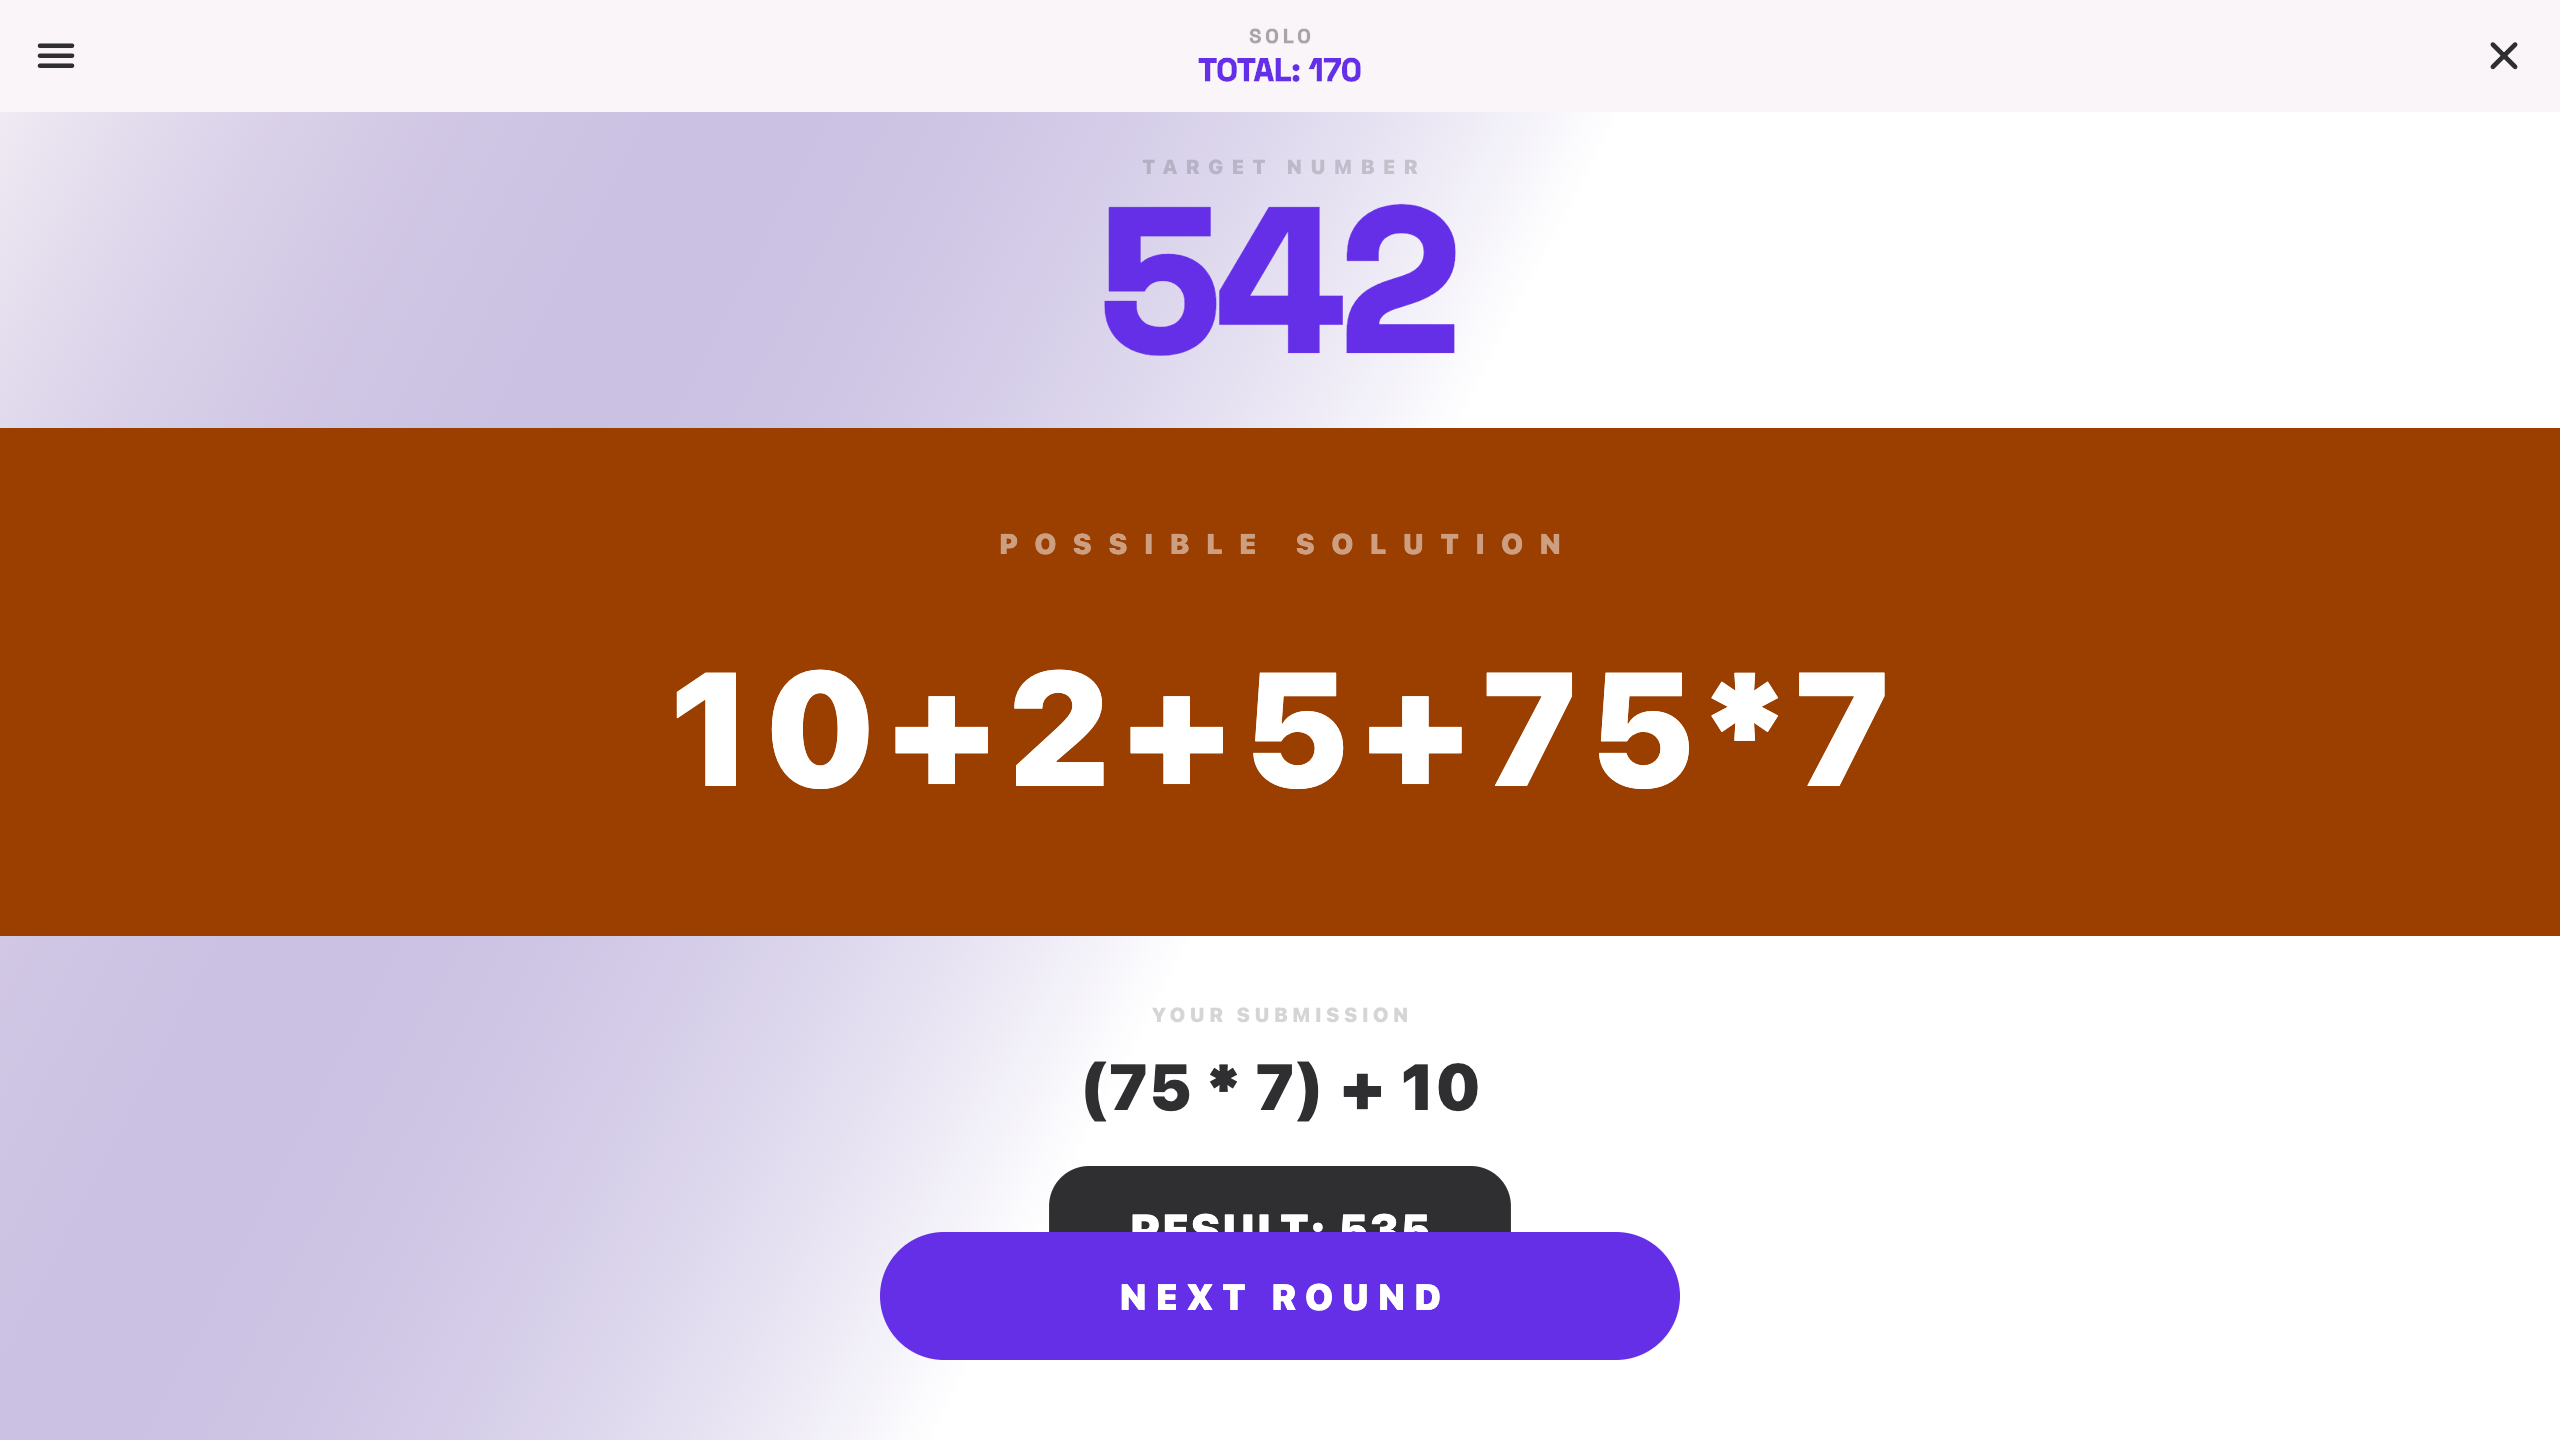
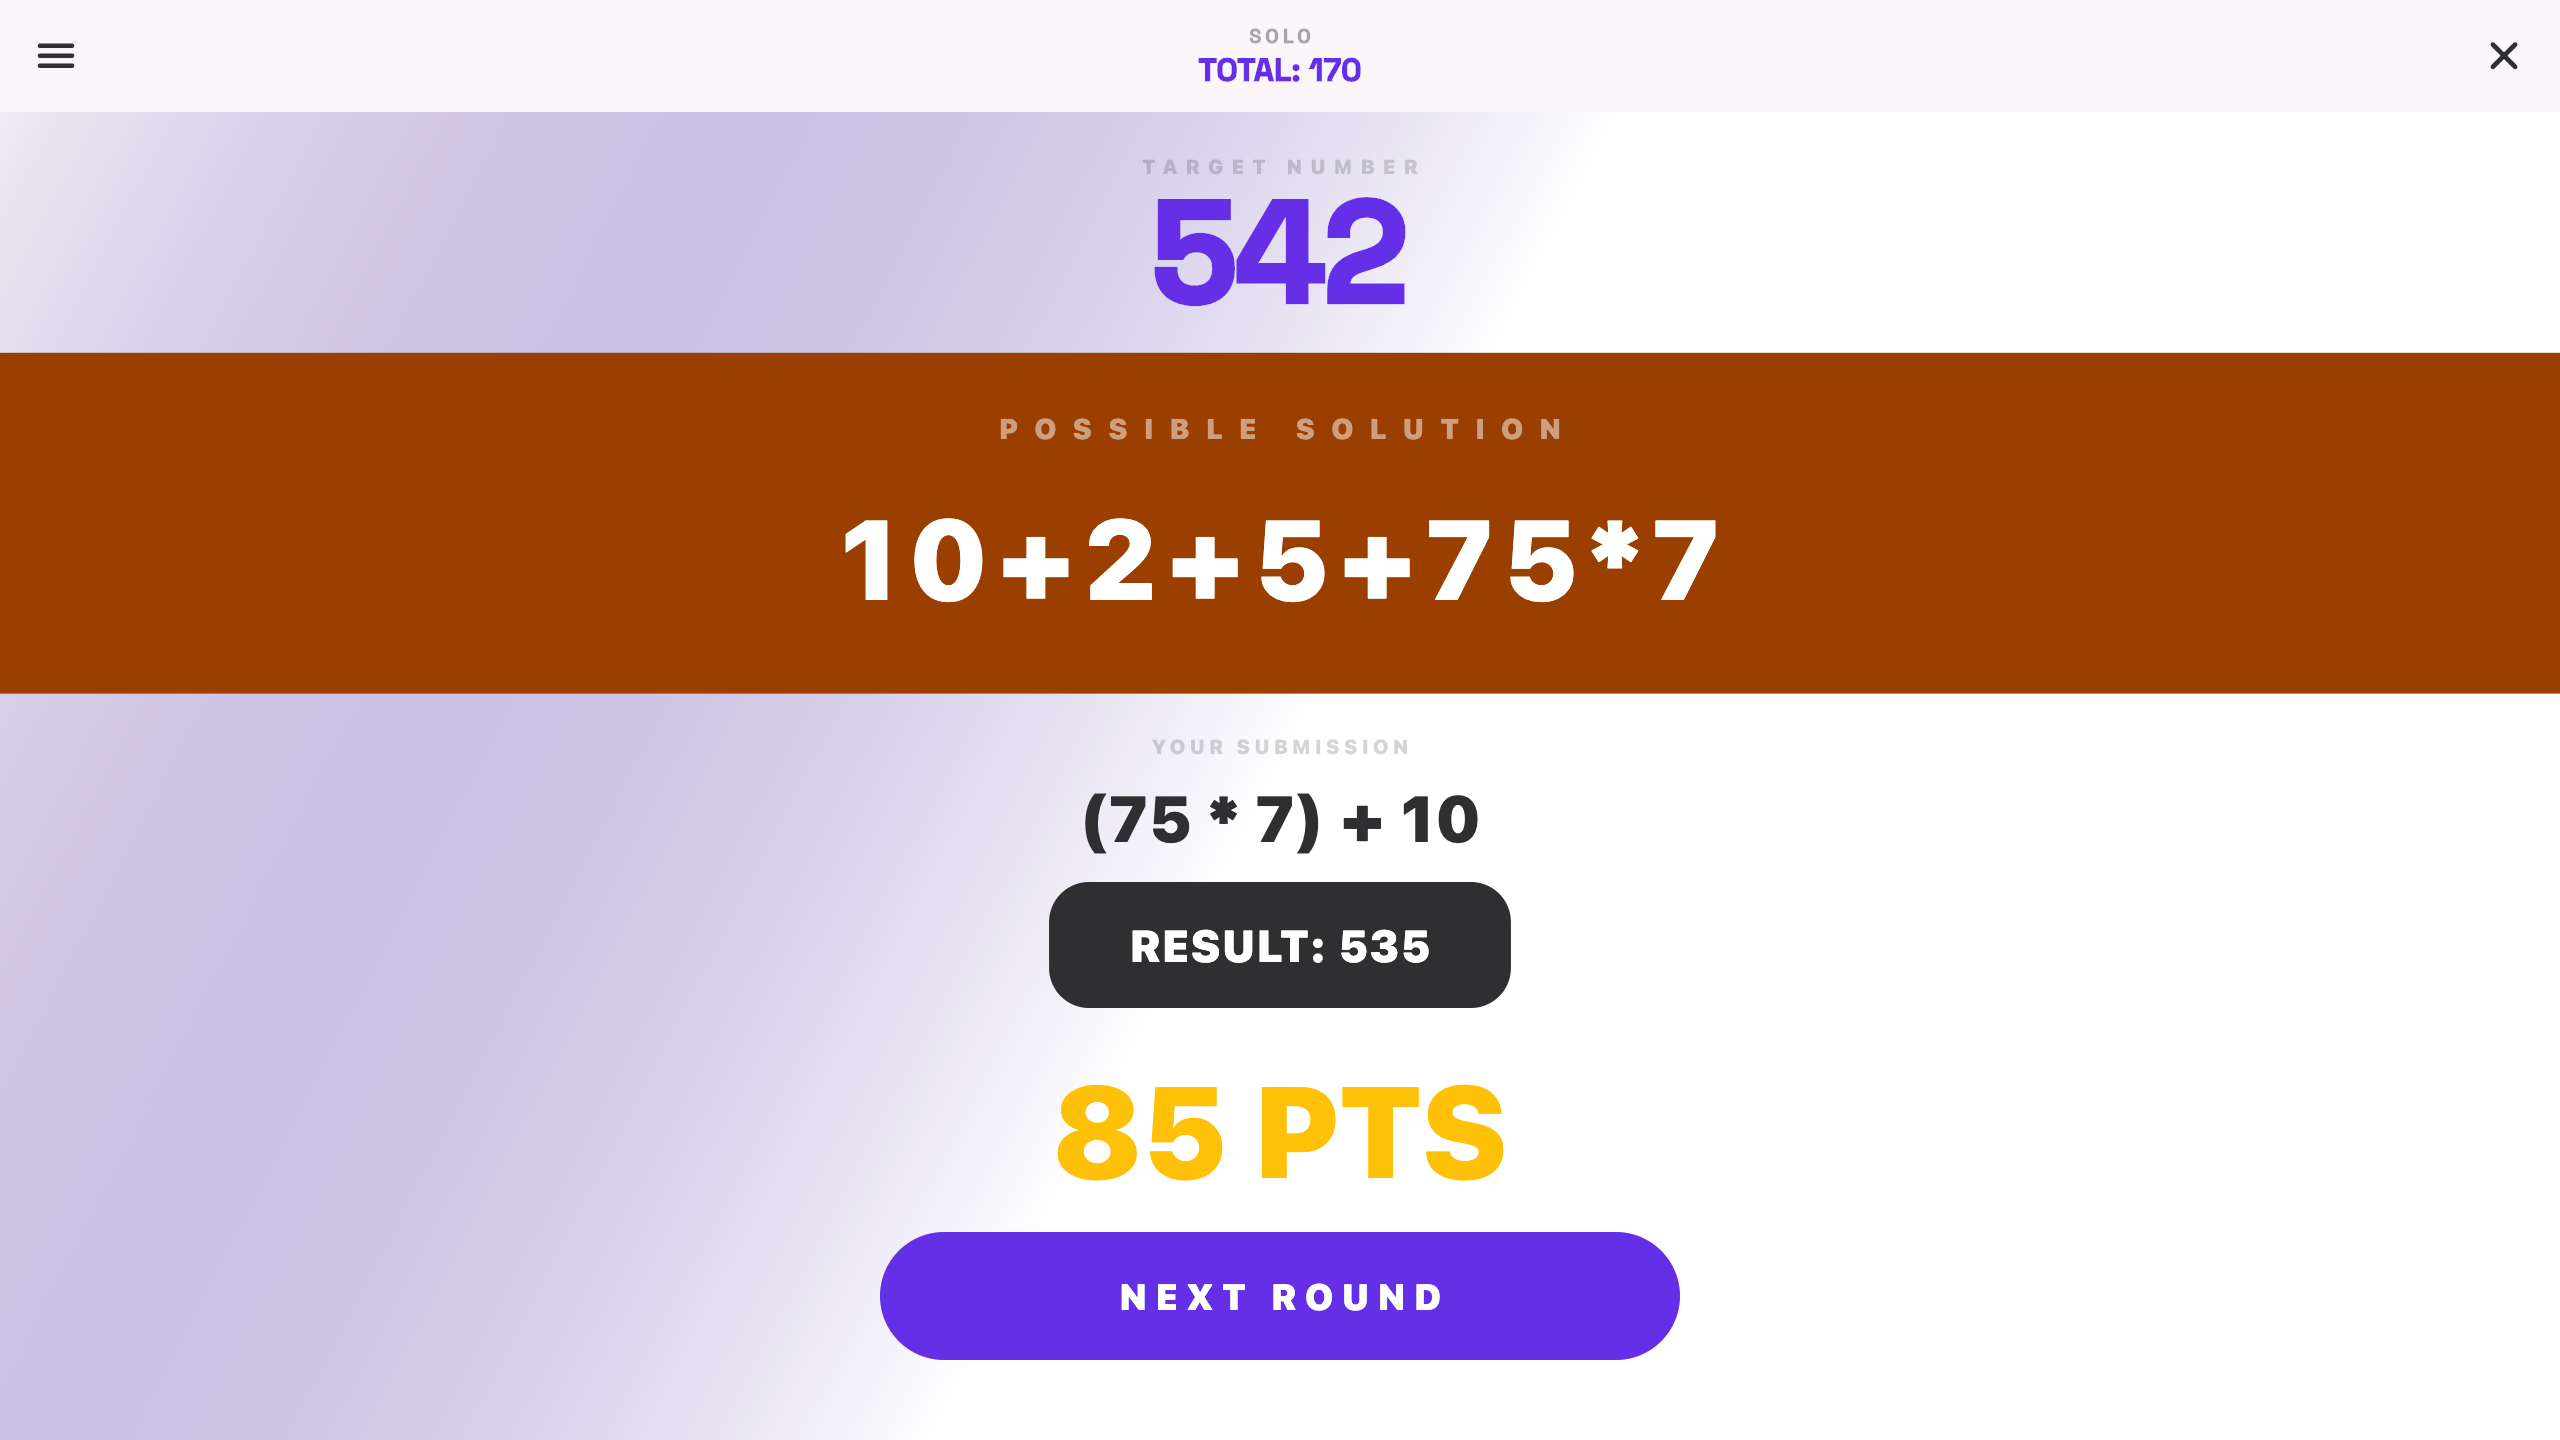
fix: compact the game target card and the results recap on short viewports
Two layout defects visible in the store screenshots.

Target card (game_screen + AnimatedTarget): AnimatedTarget's root Container
sets `alignment`, which makes a Container EXPAND to fill the height it is
offered. Unconstrained inside Expanded it swallowed the whole flex region, so
the target number floated mid-way down an enormous pale card with a large blank
band above it — worst on the tall portrait targets. Now capped (240dp desktop /
200dp mobile) and pinned with Align.topCenter, so it reads as the header band
its rounded bottom corners imply and the slack falls to the background.
NB: simply deleting `alignment` does not work — the inner Stack sizes loose and
aligns top-start, which would left-align the target number.

Results recap (_HeroRecap): its vertical rhythm was entirely fixed-size and
totalled ~700dp, outgrowing the parent SingleChildScrollView and getting clipped
exactly where the NEXT ROUND button starts — so the button looked like it was
sitting on top of the score. play/phone (~652dp available) lost the bottom of
'N PTS'; microsoft (~556dp) lost the score entirely plus part of the RESULT pill.
Gaps, band padding and the three display sizes now scale down below 900dp tall,
and the nav row gained a 12dp top gap so content never abuts it. Targets above
the threshold (mac, iphone69, ipad13, play/tablet) are unchanged.

48/48 SCREENSHOTS: PASS. README hero images refreshed from the new captures.
[…]

Changed region(s): [[0.0, 0.4688, 1.0, 0.875], [0.0, 0.125, 1.0, 0.3125], [0.3125, 0.3438, 0.6875, 0.4375]]

diff --git a/kalkra/lib/src/screens/results_screen.dart b/kalkra/lib/src/screens/results_screen.dart
@@ -166,7 +166,9 @@ class _ResultsScreenState extends ConsumerState<ResultsScreen> {
                 ),
               ),
               Padding(
-                padding: const EdgeInsets.only(bottom: 40),
+                // top gap so the scroll area's content never abuts the button
+                // even when it does scroll — that read as an overlap.
+                padding: const EdgeInsets.only(top: 12, bottom: 40),
                 child: _buildNavigationRow(context, colorScheme, ref),
               ),
             ],
@@ -319,32 +321,46 @@ class _HeroRecap extends StatelessWidget {
   @override
   Widget build(BuildContext context) {
     final theme = Theme.of(context); final colorScheme = theme.colorScheme; final isExact = playerValue == target;
+
+    // This recap's vertical rhythm was fixed-size, totalling ~700dp. On a short
+    // viewport it outgrew the parent SingleChildScrollView and got clipped right
+    // where the NEXT ROUND button begins, so the button appeared to sit on top of
+    // the score: play/phone (800dp) lost the bottom of 'N PTS' and microsoft
+    // (720dp) lost the score entirely plus part of the RESULT pill. Scale the
+    // gaps and display type down on short viewports so it always fits.
+    final tight = MediaQuery.of(context).size.height < 900;
+    final gap = tight ? 0.6 : 1.0;
+    final bandPad = tight ? 28.0 : 48.0;
+    final targetSize = tight ? 72.0 : 100.0;
+    final exprSize = tight ? 56.0 : 80.0;
+    final ptsSize = tight ? 64.0 : 90.0;
+
     return Column(mainAxisAlignment: MainAxisAlignment.center, children: [
       Text('TARGET NUMBER', style: TextStyle(fontWeight: FontWeight.w900, letterSpacing: 4, color: colorScheme.onSurface.withValues(alpha: 0.2), fontSize: 10)),
-      FittedBox(fit: BoxFit.scaleDown, child: Text('$target', style: theme.textTheme.displayLarge?.copyWith(fontSize: 100, color: colorScheme.primary, height: 1, fontWeight: FontWeight.w900))),
-      const SizedBox(height: 24),
-      if (isExact) Container(width: double.infinity, padding: const EdgeInsets.symmetric(vertical: 48, horizontal: 20), decoration: const BoxDecoration(color: Colors.green), child: Column(children: [
+      FittedBox(fit: BoxFit.scaleDown, child: Text('$target', style: theme.textTheme.displayLarge?.copyWith(fontSize: targetSize, color: colorScheme.primary, height: 1, fontWeight: FontWeight.w900))),
+      SizedBox(height: 24 * gap),
+      if (isExact) Container(width: double.infinity, padding: EdgeInsets.symmetric(vertical: bandPad, horizontal: 20), decoration: const BoxDecoration(color: Colors.green), child: Column(children: [
           const Text('TARGET REACHED!', style: TextStyle(fontWeight: FontWeight.w900, letterSpacing: 8, color: Colors.white70, fontSize: 14)),
-          const SizedBox(height: 24),
-          FittedBox(fit: BoxFit.scaleDown, child: Text(playerExpression, style: const TextStyle(fontFamily: 'monospace', fontWeight: FontWeight.w900, fontSize: 80, color: Colors.white, letterSpacing: 4))),
+          SizedBox(height: 24 * gap),
+          FittedBox(fit: BoxFit.scaleDown, child: Text(playerExpression, style: TextStyle(fontFamily: 'monospace', fontWeight: FontWeight.w900, fontSize: exprSize, color: Colors.white, letterSpacing: 4))),
       ])) else ...[
-        Container(width: double.infinity, padding: const EdgeInsets.symmetric(vertical: 48, horizontal: 20), decoration: BoxDecoration(color: colorScheme.secondary), child: Column(children: [
+        Container(width: double.infinity, padding: EdgeInsets.symmetric(vertical: bandPad, horizontal: 20), decoration: BoxDecoration(color: colorScheme.secondary), child: Column(children: [
             Text('POSSIBLE SOLUTION', style: TextStyle(fontWeight: FontWeight.w900, letterSpacing: 8, color: colorScheme.onSecondary.withValues(alpha: 0.5), fontSize: 14)),
-            const SizedBox(height: 24),
-            FittedBox(fit: BoxFit.scaleDown, child: Text(solverExpression, style: TextStyle(fontFamily: 'monospace', fontWeight: FontWeight.w900, fontSize: 80, color: colorScheme.onSecondary, letterSpacing: 4))),
+            SizedBox(height: 24 * gap),
+            FittedBox(fit: BoxFit.scaleDown, child: Text(solverExpression, style: TextStyle(fontFamily: 'monospace', fontWeight: FontWeight.w900, fontSize: exprSize, color: colorScheme.onSecondary, letterSpacing: 4))),
         ])),
-        const SizedBox(height: 32),
+        SizedBox(height: 32 * gap),
         Padding(padding: const EdgeInsets.symmetric(horizontal: 24), child: Column(children: [
             Text('YOUR SUBMISSION', style: TextStyle(fontWeight: FontWeight.w900, letterSpacing: 2, color: colorScheme.onSurface.withValues(alpha: 0.2), fontSize: 10)),
             const SizedBox(height: 8),
             FittedBox(fit: BoxFit.scaleDown, child: Text(playerExpression.isEmpty ? 'NO SUBMISSION' : playerExpression, style: theme.textTheme.headlineMedium?.copyWith(fontFamily: 'monospace', fontWeight: FontWeight.w900, fontSize: 32))),
-            const SizedBox(height: 20),
+            SizedBox(height: 20 * gap),
             Container(padding: const EdgeInsets.symmetric(horizontal: 40, vertical: 16), decoration: BoxDecoration(color: colorScheme.onSurface, borderRadius: BorderRadius.circular(20)), child: Text('RESULT: $playerValue', style: const TextStyle(fontWeight: FontWeight.w900, fontSize: 22, color: Colors.white))),
         ])),
       ],
-      const SizedBox(height: 48),
+      SizedBox(height: 48 * gap),
       FittedBox(fit: BoxFit.scaleDown, child: Column(children: [
-          Text('$playerPoints PTS', style: TextStyle(fontSize: 90, fontWeight: FontWeight.w900, color: playerPoints > 0 ? Colors.amber : Colors.grey.withValues(alpha: 0.5), letterSpacing: -2, height: 1)),
+          Text('$playerPoints PTS', style: TextStyle(fontSize: ptsSize, fontWeight: FontWeight.w900, color: playerPoints > 0 ? Colors.amber : Colors.grey.withValues(alpha: 0.5), letterSpacing: -2, height: 1)),
           const SizedBox(height: 4),
           Text('EARNED THIS ROUND', style: TextStyle(fontWeight: FontWeight.w900, letterSpacing: 6, fontSize: 10, color: colorScheme.onSurface.withValues(alpha: 0.3))),
       ])),

diff --git a/kalkra/lib/src/screens/game_screen.dart b/kalkra/lib/src/screens/game_screen.dart
@@ -597,15 +597,26 @@ class _GameScreenState extends ConsumerState<GameScreen>
     return LayoutBuilder(
       builder: (context, outer) => Column(
         children: [
+          // AnimatedTarget's Container sets `alignment`, which makes it expand to
+          // fill whatever height it is offered. Unconstrained it swallowed this
+          // whole flex region, so on tall targets the target number floated in
+          // the middle of an enormous pale card with a large blank band above it.
+          // Cap the card to roughly its content height and pin it to the top: it
+          // reads as the header band its rounded bottom corners imply, and the
+          // slack goes to the background instead of padding out the card.
           Expanded(
             flex: isDesktop ? 4 : 3,
-            child: Center(
-              child: AnimatedTarget(
-                targets: round.targets,
-                isHighStakes: _activeWildcard == WildcardType.doubleOrNothing,
-                entrance: _entranceController,
-                isDesktop: isDesktop,
-                match: match,
+            child: Align(
+              alignment: Alignment.topCenter,
+              child: ConstrainedBox(
+                constraints: BoxConstraints(maxHeight: isDesktop ? 240 : 200),
+                child: AnimatedTarget(
+                  targets: round.targets,
+                  isHighStakes: _activeWildcard == WildcardType.doubleOrNothing,
+                  entrance: _entranceController,
+                  isDesktop: isDesktop,
+                  match: match,
+                ),
               ),
             ),
           ),
